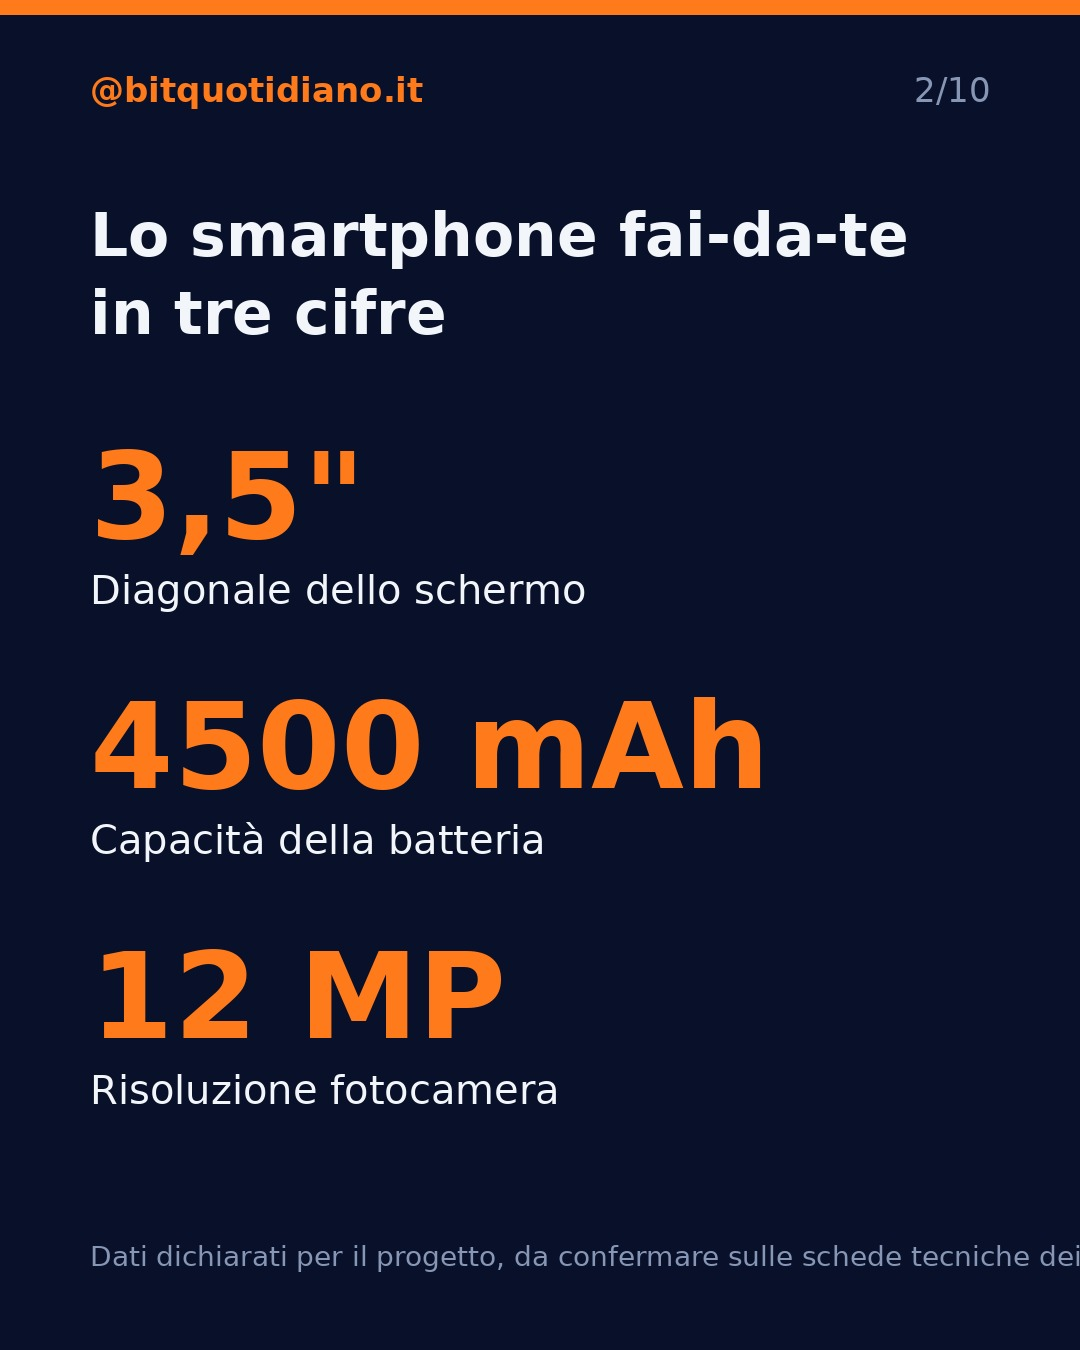
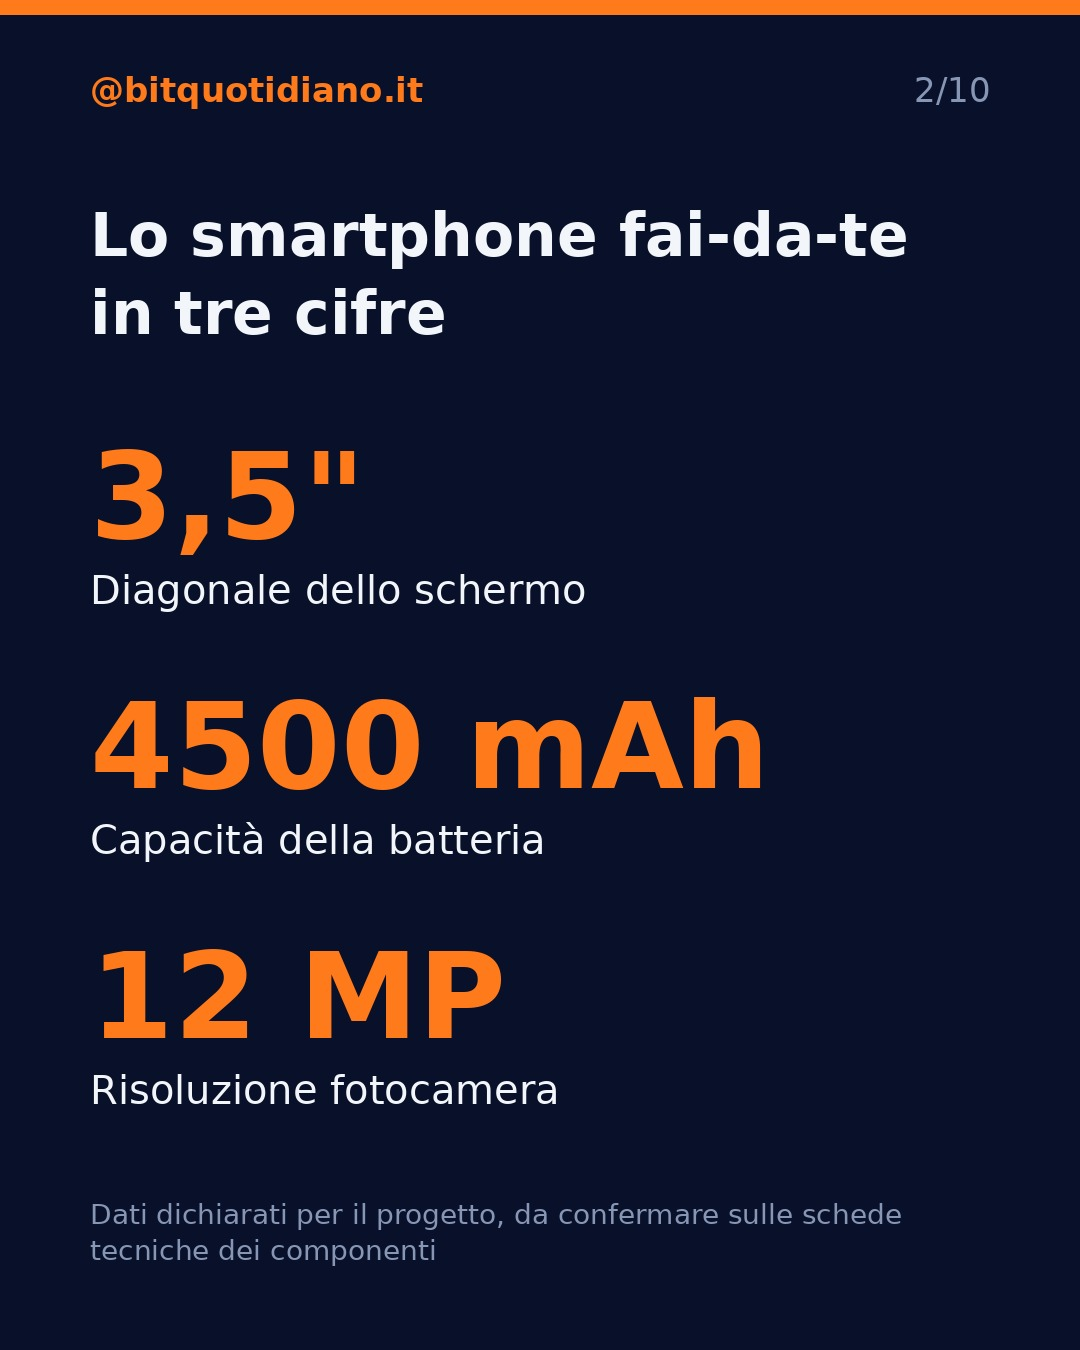
Nota dell'infografica su più righe
Claude-Session: https://claude.ai/code/session_01U6DSe7uv8AUo1LoLXyh9pn

Changed region(s): [[0.0917, 0.8711, 0.825, 0.9333], [0.9167, 0.9022, 1.0, 0.9333], [0.8556, 0.9022, 0.8861, 0.9333]]

diff --git a/pipeline/render.py b/pipeline/render.py
@@ -142,7 +142,10 @@ def render_infographic(info, index: int, total: int, handle: str, out: Path) -> 
     y = _title(d, info.titolo, 200, 60) + 70
     {"numeri": _numeri, "barre": _barre, "timeline": _timeline}[info.tipo](d, info, y)
     if info.nota:
-        d.text((MARGIN, H - 110), info.nota, font=_font(FONT_REG, 28), fill=MUTED)
+        note_font = _font(FONT_REG, 28)
+        lines = _wrap(d, info.nota, note_font, W - 2 * MARGIN)[:2]
+        for j, line in enumerate(lines):
+            d.text((MARGIN, H - 80 - 36 * (len(lines) - j)), line, font=note_font, fill=MUTED)
     return _save(img, out)
 
 
